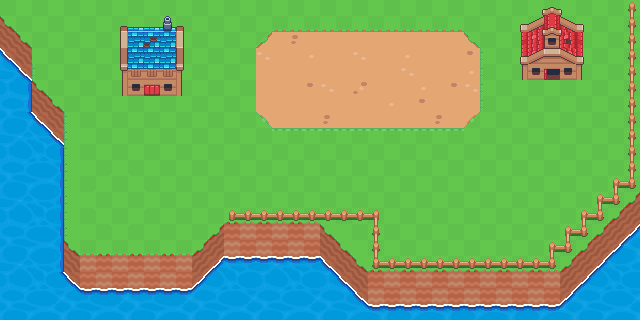
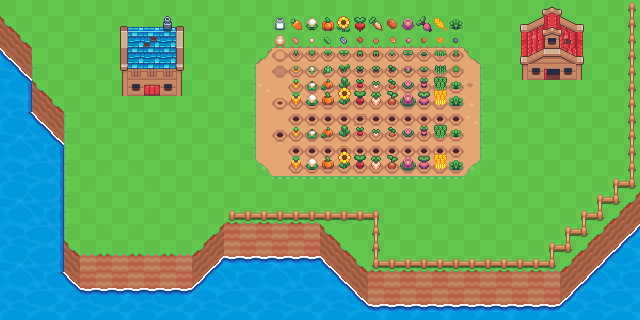
Tilemap is ready, time to start coding

Changed region(s): [[0.375, 0.0312, 0.75, 0.5625]]

diff --git a/data/tilemap/tilesets/tileset-v1.tsx b/data/tilemap/tilesets/tileset-v1.tsx
@@ -1,4 +1,9 @@
 <?xml version="1.0" encoding="UTF-8"?>
 <tileset version="1.10" tiledversion="1.10.1" name="tileset-v1" tilewidth="16" tileheight="16" tilecount="400" columns="20">
  <image source="tileset-v1.png" width="320" height="320"/>
+ <tile id="65" probability="0.05"/>
+ <tile id="84" probability="0.05"/>
+ <tile id="85" probability="0.075"/>
+ <tile id="86" probability="0.075"/>
+ <tile id="105" probability="0.075"/>
 </tileset>

diff --git a/src/game.py b/src/game.py
@@ -13,7 +13,8 @@ class Trees(pygame.sprite.Sprite):
         self.image = self.image.convert_alpha()
         self.image = pygame.transform.scale_by(self.image, SCALE_FACTOR)
         self.rect = self.image.get_rect(center = SCREEN_CENTER)
-        self.rect.y += 50
+        self.rect.x -= 50
+        self.rect.y += 200
 
 
 class ClearviewFarmGame:
